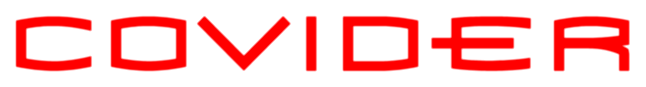
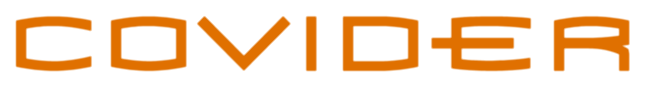
[C/Game] Include title

Changed region(s): [[0.5263, 0.1839, 0.9907, 0.8276], [0.0, 0.1839, 0.4954, 0.8276]]

diff --git a/lib/game/game.dart b/lib/game/game.dart
@@ -6,6 +6,7 @@ import 'package:experiments_with_web/game/components/moving_virus.dart';
 import 'package:experiments_with_web/game/components/virus.dart';
 import 'package:experiments_with_web/game/utilities/constants.dart';
 import 'package:experiments_with_web/game/utilities/helpers.dart';
+import 'package:experiments_with_web/game/views/home_view.dart';
 
 import 'package:flame/flame.dart';
 import 'package:flame/game/game.dart';
@@ -44,6 +45,10 @@ class GameTime extends Game with TapDetector {
   // ADD VIRUS
   List<Virus> virusCmpnt;
 
+  // ADD VIEW
+  GameView activeView = GameView.home;
+  HomeView homeView;
+
   Future<void> get initialize async {
     virusCmpnt = <Virus>[];
 
@@ -51,6 +56,7 @@ class GameTime extends Game with TapDetector {
     resize(_size);
 
     background = Background(gameTime: this);
+    homeView = HomeView(gameTime: this);
     createVirus();
   }
 
@@ -62,6 +68,11 @@ class GameTime extends Game with TapDetector {
     // LOOP THROUGH VIRUS
     for (final _virus in virusCmpnt) {
       _virus.render(canvas);
+    }
+
+    // ADD VIEWS
+    if (activeView == GameView.home) {
+      homeView.render(canvas);
     }
   }
 

diff --git a/lib/game/views/home_view.dart b/lib/game/views/home_view.dart
@@ -1,0 +1,32 @@
+import 'package:experiments_with_web/game/game.dart';
+import 'package:experiments_with_web/game/utilities/constants.dart';
+
+import 'package:flame/sprite.dart';
+
+import 'package:flutter/material.dart';
+
+class HomeView {
+  HomeView({
+    @required this.gameTime,
+  }) {
+    titleRect = Rect.fromLTWH(
+        gameTime.screenSize.width / 6,
+        gameTime.screenSize.height / 4,
+        gameTime.screenSize.width / 1.5,
+        gameTime.screenSize.height / 6);
+
+    titleSprite = Sprite(GameUtils.gameName);
+  }
+
+  final GameTime gameTime;
+
+  // COMPONENT VARIABLES
+  Rect titleRect;
+  Sprite titleSprite;
+
+  void render(Canvas c) {
+    titleSprite.renderRect(c, titleRect);
+  }
+
+  void update(double t) {}
+}

diff --git a/lib/game/utilities/constants.dart b/lib/game/utilities/constants.dart
@@ -1,3 +1,9 @@
+enum GameView {
+  home,
+  playing,
+  lost,
+}
+
 class GameUtils {
   GameUtils._();
 
